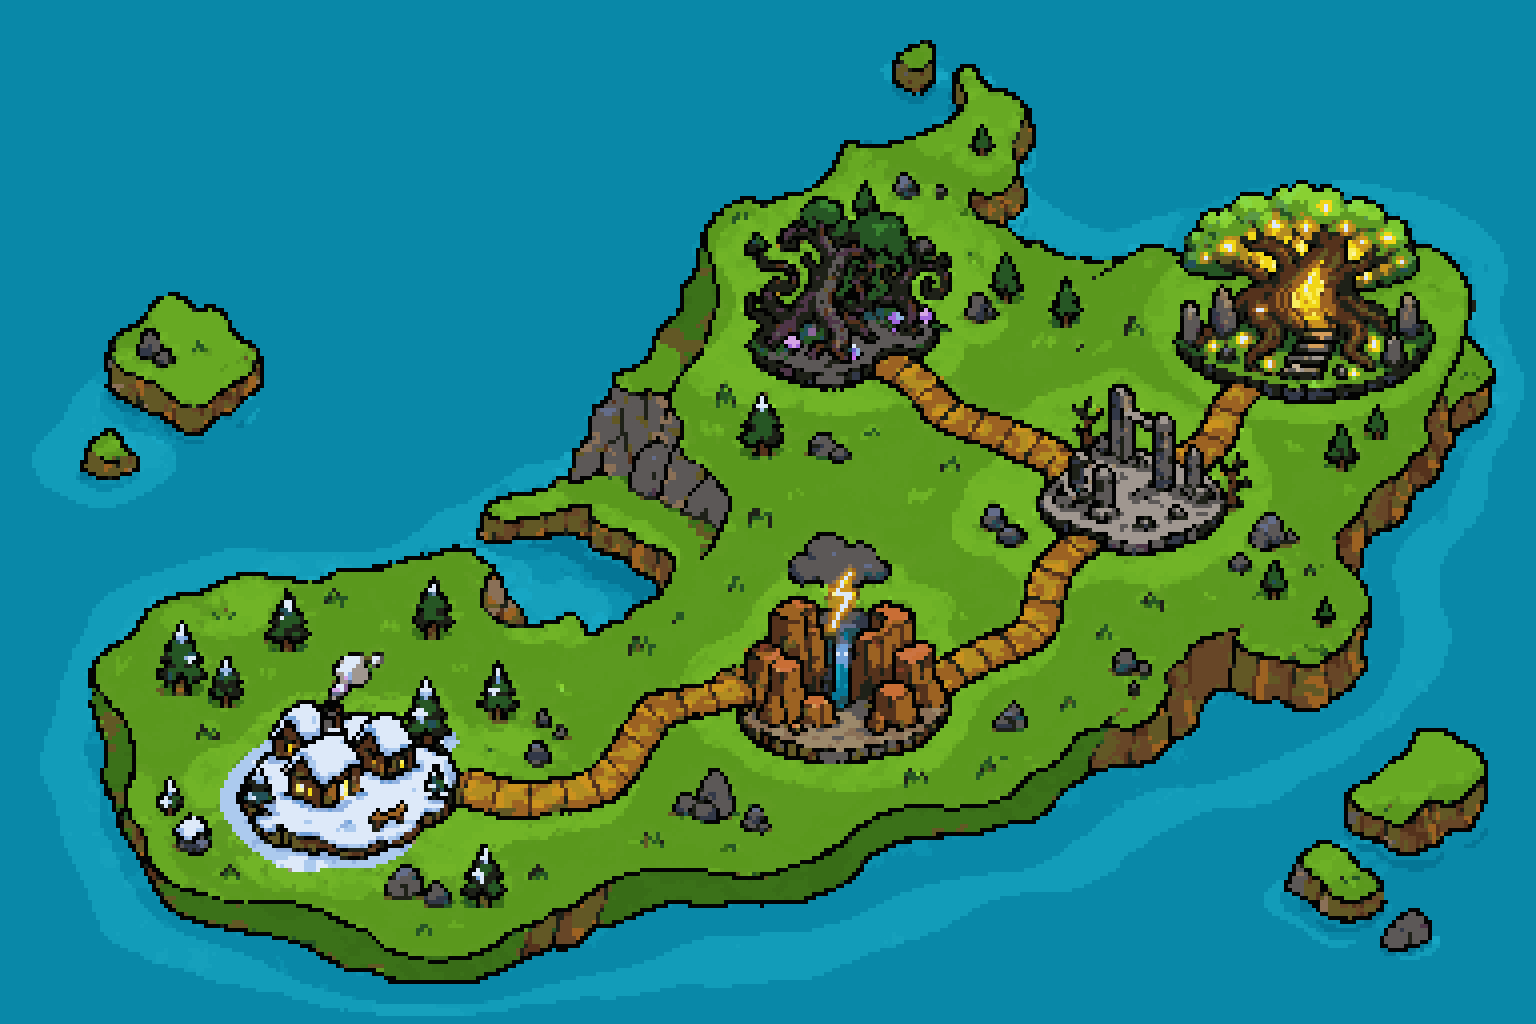
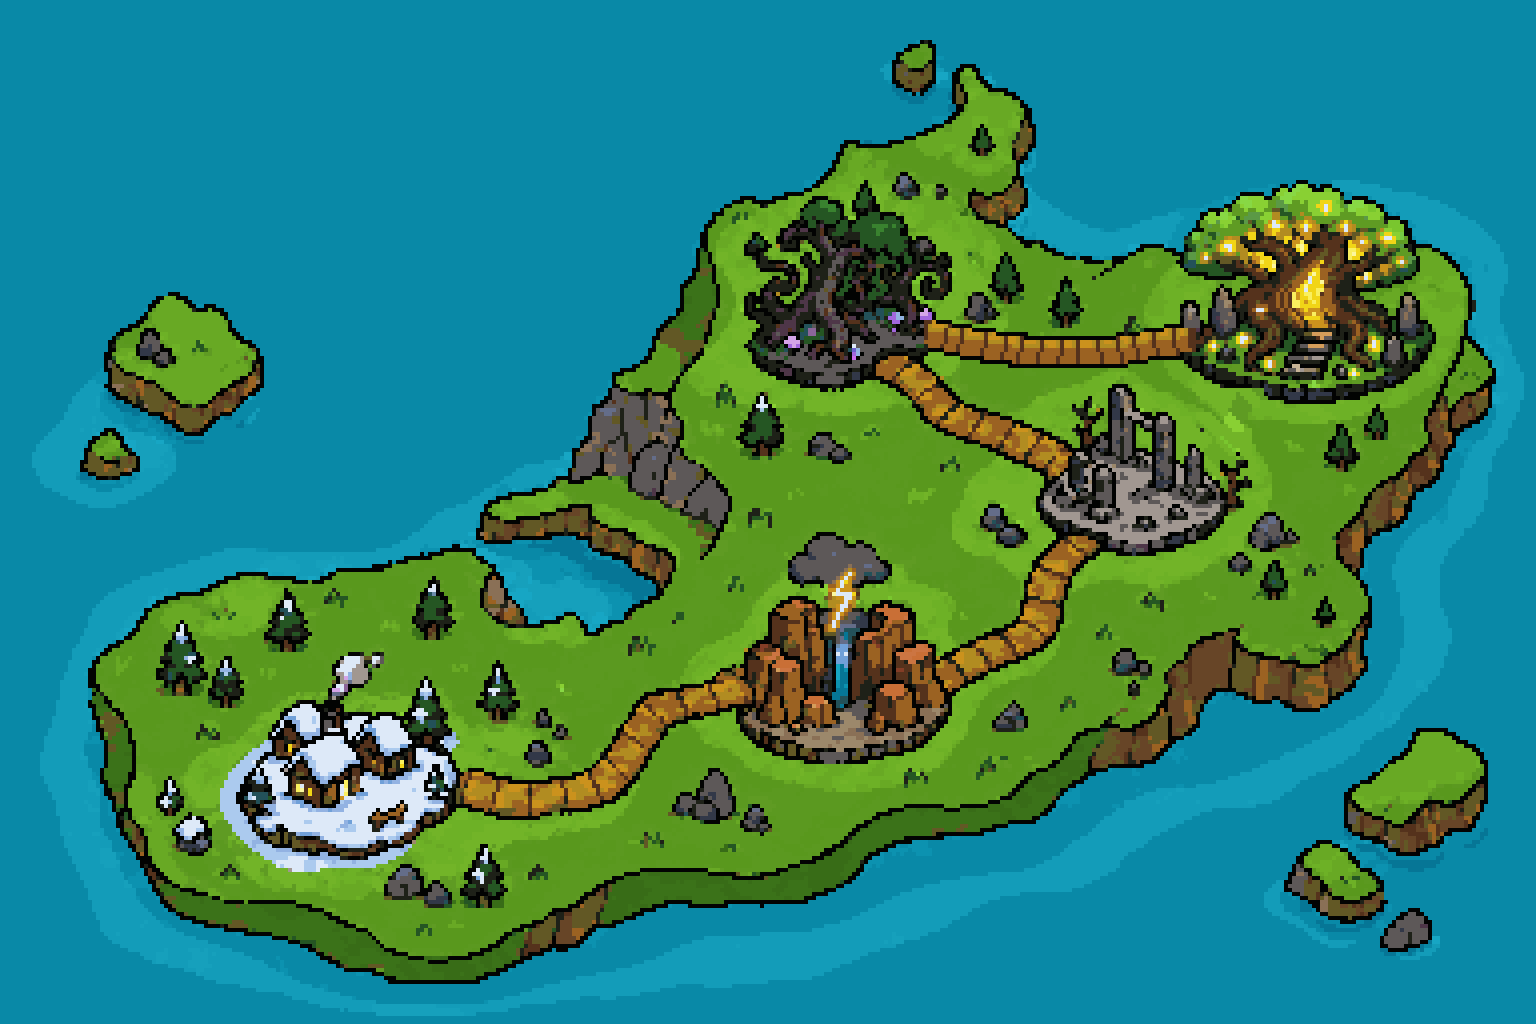
fix: 2부 맵 길을 스테이지 순서대로 한 줄로 수정
길이 잿빛 유적에서 숲과 세계수로 갈라지고 숲과 세계수 사이에는 길이 없었다.
유적→세계수 길을 지우고 숲→세계수 길을 그린다.

Refs #79

Changed region(s): [[0.5938, 0.3125, 0.7812, 0.375], [0.75, 0.375, 0.8438, 0.4688]]

diff --git a/docs/design/act-two-art/redraw_map_path.py b/docs/design/act-two-art/redraw_map_path.py
@@ -1,0 +1,163 @@
+"""2부 맵의 길을 스테이지 순서대로 한 줄로 이어지게 고친다.
+
+사용법: python3 docs/design/act-two-art/redraw_map_path.py
+저장소 루트에서 실행한다. regrid_backgrounds.py 로 384×256 격자를 맞춘 ActTwoMap.png 를 고친다.
+
+생성한 맵은 길이 잿빛 유적(7)에서 뒤틀린 숲(8)과 세계수(9)로 갈라지고 숲과 세계수 사이에는 길이 없다.
+유적→세계수 길을 지우고 숲→세계수 길을 그려서 서리 마을→협곡→유적→숲→세계수가 한 줄이 되게 한다.
+regrid_backgrounds.py 를 실행한 직후의 그림에 한 번만 실행한다.
+"""
+import math
+from collections import Counter
+from pathlib import Path
+
+from PIL import Image
+
+MAP = Path.cwd() / "Assets/Art/Map/ActTwoMap.png"
+GRID = (384, 256)
+
+OUTLINE = (2, 3, 2)
+ROAD = (155, 98, 34)
+ROAD_LIGHT = (177, 140, 33)
+ROAD_HIGHLIGHT = (203, 146, 29)
+ROAD_SEAM = (85, 50, 28)
+ROAD_COLORS = {ROAD, ROAD_LIGHT, ROAD_HIGHLIGHT, ROAD_SEAM, (98, 88, 37)}
+
+# 지울 유적→세계수 길이 들어 있는 범위(격자 좌표, 끝 포함). 아래쪽 유적 기둥과 마른 나무는 회색·갈색이라 남는다.
+ERASE_BOX = (293, 95, 316, 117)
+# 세계수 섬 바닥 테두리 줄. 이 줄의 길 색은 풀 대신 같은 줄 양옆의 테두리 색으로 메운다.
+PLATFORM_EDGE_ROWS = (95, 96)
+# 새 길의 중심선을 지나는 점. 숲 섬 안쪽에서 시작해 풀밭을 완만하게 휘어 지나고 세계수 섬 안쪽에서 끝난다.
+NEW_PATH = [(231, 83), (244, 86), (260, 88), (276, 88), (289, 86), (298, 85)]
+ROAD_HALF_WIDTH = 3.2
+# 타일 길이를 조금씩 바꿔 자로 그은 무늬가 되지 않게 한다.
+TILE_LENGTHS = (5, 4, 6, 5, 4, 5)
+
+
+def is_green(color):
+    r, g, b = color
+    return g > 120 and g > r and g > b
+
+
+def is_stone(color):
+    r, g, b = color
+    return abs(r - g) < 15 and abs(g - b) < 15 and r > 60
+
+
+def erase_branch(px):
+    x0, y0, x1, y1 = ERASE_BOX
+    road = {(x, y) for y in range(y0, y1 + 1) for x in range(x0, x1 + 1) if px[x, y] in ROAD_COLORS}
+    erased = set()
+    for x, y in road:
+        if y not in PLATFORM_EDGE_ROWS:
+            erased.add((x, y))
+            continue
+        # 테두리 줄은 왼쪽·오른쪽으로 가장 가까운 길 아닌 칸의 색을 이어 쓴다.
+        for step in range(1, x1 - x0 + 2):
+            side = [(x - step, y), (x + step, y)]
+            colors = [px[p] for p in side if p not in road]
+            if colors:
+                px[x, y] = colors[0]
+                break
+    # 길 윤곽선만 지운다. 길 색 칸에 붙어 있지 않은 검은 칸(섬 테두리)과 회색 기둥에 붙은 검은 칸은 남긴다.
+    for y in range(max(y0, PLATFORM_EDGE_ROWS[-1] + 1), y1 + 1):
+        for x in range(x0, x1 + 1):
+            if px[x, y] != OUTLINE:
+                continue
+            around = [(x + dx, y + dy) for dx in (-1, 0, 1) for dy in (-1, 0, 1)]
+            if any(p in road for p in around) and not any(is_stone(px[p]) for p in around):
+                erased.add((x, y))
+    # 지운 칸은 둘레의 풀색으로 바깥부터 채운다.
+    while erased:
+        filled = {}
+        for x, y in erased:
+            around = [px[x + dx, y + dy] for dx in (-1, 0, 1) for dy in (-1, 0, 1)
+                      if (x + dx, y + dy) not in erased and is_green(px[x + dx, y + dy])]
+            if around:
+                filled[(x, y)] = Counter(around).most_common(1)[0][0]
+        if not filled:
+            break
+        for point, color in filled.items():
+            px[point] = color
+            erased.discard(point)
+
+
+def smooth_path(points, steps=12):
+    """Catmull-Rom 곡선으로 점 사이를 촘촘한 점으로 채운다."""
+    padded = [points[0]] + points + [points[-1]]
+    result = []
+    for i in range(1, len(padded) - 2):
+        p0, p1, p2, p3 = padded[i - 1:i + 3]
+        for step in range(steps):
+            t = step / steps
+            result.append(tuple(
+                0.5 * (2 * p1[k] + (-p0[k] + p2[k]) * t + (2 * p0[k] - 5 * p1[k] + 4 * p2[k] - p3[k]) * t * t
+                       + (-p0[k] + 3 * p1[k] - 3 * p2[k] + p3[k]) * t * t * t)
+                for k in (0, 1)))
+    result.append(points[-1])
+    return result
+
+
+def nearest_on_path(path, x, y):
+    """중심선에서 가장 가까운 점까지의 거리, 그 점까지 따라간 길이, 중심선 위(-)·아래(+) 쪽을 돌려준다."""
+    best = (math.inf, 0.0, 0.0)
+    travelled = 0.0
+    for (ax, ay), (bx, by) in zip(path, path[1:]):
+        dx, dy = bx - ax, by - ay
+        length = math.hypot(dx, dy)
+        t = max(0.0, min(1.0, ((x - ax) * dx + (y - ay) * dy) / (length * length)))
+        cx, cy = ax + t * dx, ay + t * dy
+        distance = math.hypot(x - cx, y - cy)
+        if distance < best[0]:
+            side = (x - ax) * -dy / length + (y - ay) * dx / length
+            best = (distance, travelled + t * length, side)
+        travelled += length
+    return best
+
+
+def tile_position(along):
+    """타일 경계에서 얼마나 떨어졌는지와 그 타일의 길이를 돌려준다."""
+    index = 0
+    while along >= TILE_LENGTHS[index % len(TILE_LENGTHS)]:
+        along -= TILE_LENGTHS[index % len(TILE_LENGTHS)]
+        index += 1
+    return along, TILE_LENGTHS[index % len(TILE_LENGTHS)]
+
+
+def draw_road(px):
+    path = smooth_path(NEW_PATH)
+    xs = [p[0] for p in NEW_PATH]
+    ys = [p[1] for p in NEW_PATH]
+    for y in range(int(min(ys) - ROAD_HALF_WIDTH - 2), int(max(ys) + ROAD_HALF_WIDTH + 3)):
+        for x in range(min(xs), max(xs) + 1):
+            distance, along, side = nearest_on_path(path, x + 0.5, y + 0.5)
+            if distance > ROAD_HALF_WIDTH + 1:
+                continue
+            if distance > ROAD_HALF_WIDTH:
+                # 섬 위로 들어간 양 끝은 윤곽선을 그리지 않아 길이 섬 안으로 이어져 보이게 한다.
+                if is_green(px[x, y]):
+                    px[x, y] = OUTLINE
+                continue
+            in_tile, length = tile_position(along)
+            if in_tile < 1:
+                px[x, y] = ROAD_SEAM
+            elif side < -1.6 and 1.5 <= in_tile < length - 1:
+                px[x, y] = ROAD_HIGHLIGHT
+            elif side < -0.8:
+                px[x, y] = ROAD_LIGHT
+            else:
+                px[x, y] = ROAD
+
+
+def main():
+    image = Image.open(MAP).convert("RGB")
+    scale = image.width // GRID[0]
+    small = image.resize(GRID, Image.NEAREST)
+    px = small.load()
+    erase_branch(px)
+    draw_road(px)
+    small.resize((GRID[0] * scale, GRID[1] * scale), Image.NEAREST).save(MAP)
+
+
+if __name__ == "__main__":
+    main()
